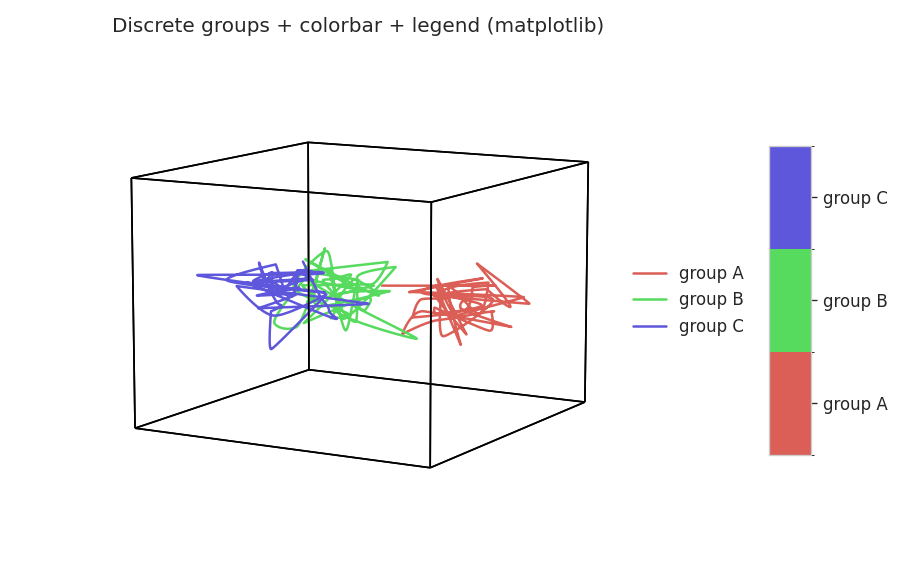
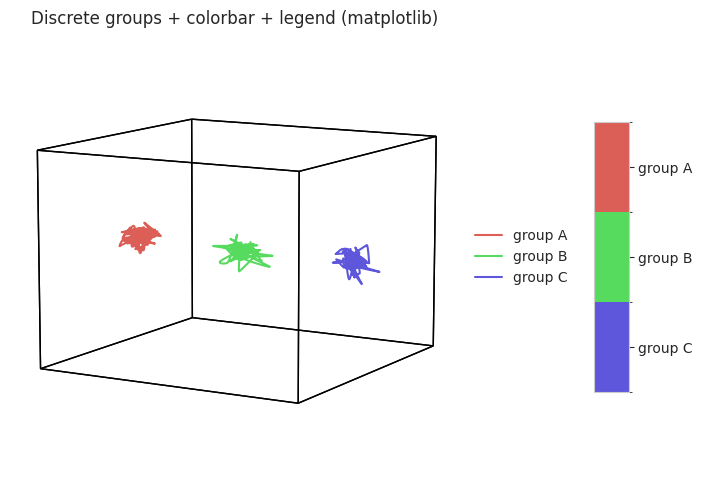
fix(colorbar): discrete segments read in legend order (GH #100 follow-up)
A vertical discrete colorbar previously read bottom-up (matplotlib/plotly's
default low-value-at-bottom convention), the reverse of the legend, which
reads top-to-bottom. Flip only the DISPLAY orientation for discrete
colorbars (mpl: cbar.ax.invert_yaxis(); plotly: reversed colorscale +
reversed tickvals) so the first group renders at the top, matching the
legend -- color<->label pairing is preserved since only the physical
position, not the data-to-color mapping, changes. Horizontal discrete
colorbars (location='top'/'bottom') already read left-to-right in legend
order and are untouched; continuous colorbars are unaffected.

diff --git a/tests/test_colorbar.py b/tests/test_colorbar.py
@@ -244,11 +244,20 @@ def test_continuous_colorbar_plotly_matches_palette():
 
 
 def test_discrete_colorbar_plotly_matches_groups():
+    # NOTE (GH #100 follow-up): a VERTICAL discrete colorbar must read
+    # top-to-bottom in the SAME order as the legend, i.e. group 0 (the
+    # FIRST group) must sit at the TOP -- plotly's vertical orientation
+    # places cmax (the largest value) at the top and cmin at the bottom, so
+    # group 0's tick now lives at the LARGEST value (n - 1) instead of 0,
+    # and the hard-edged colorscale segments are built from `colors[::-1]`
+    # so the segment nearest cmax (top) holds group 0's color. This was
+    # previously pinned to the old bottom-up order ([0, 1, 2] / segments in
+    # forward order); updated to assert the new top-down order instead.
     x, hue = _discrete_hue_data()
     fig = hyp.plot(x, hue=hue, colorbar=True, backend='plotly', show=False)
     cb_trace = fig.data[-1]
 
-    assert list(cb_trace.marker.colorbar.tickvals) == [0, 1, 2]
+    assert list(cb_trace.marker.colorbar.tickvals) == [2, 1, 0]
     assert list(cb_trace.marker.colorbar.ticktext) == ['1', '2', '3']
     assert cb_trace.marker.cmin == pytest.approx(-0.5)
     assert cb_trace.marker.cmax == pytest.approx(2.5)
@@ -258,12 +267,17 @@ def test_discrete_colorbar_plotly_matches_groups():
     def _parse_rgb(s):
         return tuple(int(v) for v in s[len('rgb('):-1].split(','))
 
-    # first stop of each of the 3 hard-edged segments == that group's color
+    # first stop of each of the 3 hard-edged segments -- segment 0 (nearest
+    # cmin, i.e. the BOTTOM of the vertical colorbar) now holds the LAST
+    # group's color, and segment 2 (nearest cmax, the TOP) holds the FIRST
+    # group's color, since group 0 must render at the top to match the
+    # legend.
     scale = cb_trace.marker.colorscale
     seg0_color = _parse_rgb(scale[0][1])
     seg1_color = _parse_rgb(scale[2][1])
     seg2_color = _parse_rgb(scale[4][1])
-    for seg_color, exp in zip((seg0_color, seg1_color, seg2_color), expected):
+    for seg_color, exp in zip((seg0_color, seg1_color, seg2_color),
+                              reversed(expected)):
         assert seg_color == tuple(int(round(255 * c)) for c in exp)
 
 
@@ -367,4 +381,165 @@ def test_long_labels_legend_and_colorbar_fully_inside_canvas():
     _, cbar_ax = fig.axes
     cbar_labels = [t.get_text() for t in cbar_ax.get_yticklabels()]
     assert cbar_labels == long_labels
+
+
+# ------------------------------------------------------------------------
+# discrete colorbar segment order must match the legend order (GH #100
+# follow-up): legend reads first-to-last TOP-to-BOTTOM, so a VERTICAL
+# discrete colorbar must too (first group at the top); a HORIZONTAL one
+# must read first-to-last LEFT-to-RIGHT (first group leftmost).
+# --------------------------------------------------------------------------
+
+def test_discrete_colorbar_mpl_vertical_reads_top_to_bottom_in_legend_order():
+    x, hue = _discrete_hue_data()
+    legend = ['group A', 'group B', 'group C']
+    fig = hyp.plot(x, hue=hue, colorbar=True, legend=legend, show=False)
+    canvas = FigureCanvasAgg(fig)
+    canvas.draw()
+    renderer = canvas.get_renderer()
+    ax, cbar_ax = fig.axes
+
+    # ground truth: the legend's own artists, top-to-bottom by DISPLAY y
+    # (descending y = higher on the canvas = earlier), and each group's
+    # actual drawn color (the legend proxy handles' colors).
+    handles, legend_texts = ax.get_legend().legend_handles, ax.get_legend().texts
+    legend_entries = sorted(
+        zip((t.get_window_extent(renderer).y0 for t in legend_texts),
+            (t.get_text() for t in legend_texts),
+            (h.get_color() for h in handles)),
+        key=lambda e: -e[0])
+    legend_order = [label for _, label, _ in legend_entries]
+    color_by_label = {label: color for _, label, color in legend_entries}
+    assert legend_order == legend, "sanity check: legend itself reads top-down"
+
+    # colorbar: tick labels sorted by DESCENDING display y (top first)
+    ticklabels = cbar_ax.get_yticklabels()
+    ticks = cbar_ax.get_yticks()
+    entries = sorted(
+        zip((t.get_window_extent(renderer).y0 for t in ticklabels),
+            (t.get_text() for t in ticklabels), ticks),
+        key=lambda e: -e[0])
+    cbar_order = [label for _, label, _ in entries]
+    assert cbar_order == legend_order, (
+        "discrete colorbar must read top-to-bottom in the SAME order as "
+        "the legend")
+
+    # critical invariant: the order flip must not break color<->label
+    # pairing -- each tick's face color (sampled through the colorbar's
+    # own cmap/norm at that tick's data value) must equal the actual
+    # drawn color for that group.
+    mesh = _quadmesh(cbar_ax)
+    for _, label, tickval in entries:
+        face = mesh.cmap(mesh.norm(tickval))[:3]
+        assert np.allclose(face, color_by_label[label], atol=1e-6), (
+            f"{label}'s colorbar segment color does not match its line color")
     plt.close(fig)
+
+
+def test_discrete_colorbar_mpl_horizontal_reads_left_to_right_in_legend_order():
+    x, hue = _discrete_hue_data()
+    legend = ['group A', 'group B', 'group C']
+    fig = hyp.plot(x, hue=hue, colorbar={'location': 'bottom'},
+                   legend=legend, show=False)
+    canvas = FigureCanvasAgg(fig)
+    canvas.draw()
+    renderer = canvas.get_renderer()
+    ax, cbar_ax = fig.axes
+
+    handles, legend_texts = ax.get_legend().legend_handles, ax.get_legend().texts
+    color_by_label = {t.get_text(): h.get_color()
+                      for t, h in zip(legend_texts, handles)}
+
+    ticklabels = cbar_ax.get_xticklabels()
+    ticks = cbar_ax.get_xticks()
+    entries = sorted(
+        zip((t.get_window_extent(renderer).x0 for t in ticklabels),
+            (t.get_text() for t in ticklabels), ticks),
+        key=lambda e: e[0])  # ascending x = left first
+    cbar_order = [label for _, label, _ in entries]
+    assert cbar_order == legend, (
+        "horizontal discrete colorbar must read left-to-right in legend order")
+
+    mesh = _quadmesh(cbar_ax)
+    for _, label, tickval in entries:
+        face = mesh.cmap(mesh.norm(tickval))[:3]
+        assert np.allclose(face, color_by_label[label], atol=1e-6)
+    plt.close(fig)
+
+
+def test_discrete_colorbar_plotly_vertical_reads_top_to_bottom_in_legend_order():
+    x, hue = _discrete_hue_data()
+    legend = ['group A', 'group B', 'group C']
+    fig = hyp.plot(x, hue=hue, colorbar=True, legend=legend,
+                   backend='plotly', show=False)
+    cb_trace = fig.data[-1]
+    cb = cb_trace.marker.colorbar
+
+    assert list(cb.ticktext) == legend
+    # tickvals descending -> tick for legend[0] sits at the HIGHEST value,
+    # which plotly renders nearest cmax, i.e. the TOP of a vertical colorbar
+    tickvals = list(cb.tickvals)
+    assert tickvals == sorted(tickvals, reverse=True)
+    assert tickvals[0] == max(tickvals), "first legend entry must be at the top"
+
+    # color pairing: the segment at each tickval's position holds the
+    # SAME group's actual drawn color
+    expected = get_palette_colors('hls', 3)
+
+    def _parse_rgb(s):
+        return tuple(int(v) for v in s[len('rgb('):-1].split(','))
+
+    cmin, cmax = cb_trace.marker.cmin, cb_trace.marker.cmax
+    scale = cb_trace.marker.colorscale
+    for label, tickval, exp in zip(legend, tickvals, expected):
+        frac = (tickval - cmin) / (cmax - cmin)
+        # find the segment whose [start, end) fraction range contains frac
+        seg_color = None
+        for i in range(0, len(scale), 2):
+            lo, hi = scale[i][0], scale[i + 1][0]
+            if lo - 1e-9 <= frac <= hi + 1e-9:
+                seg_color = _parse_rgb(scale[i][1])
+                break
+        assert seg_color is not None, f"no segment found for {label} at frac={frac}"
+        assert seg_color == tuple(int(round(255 * c)) for c in exp), (
+            f"{label}'s colorbar segment color does not match its group color")
+
+
+# --------------------------------------------------- continuous regression
+def test_continuous_colorbar_mpl_orientation_unchanged():
+    """Regression: CONTINUOUS colorbars are numeric and must keep the
+    conventional low-at-bottom orientation (untouched by the discrete
+    top-to-bottom legend-order fix, GH #100 follow-up)."""
+    x, hue = _continuous_hue_data()
+    fig = hyp.plot(x, hue=hue, fmt='-', colorbar=True, show=False)
+    canvas = FigureCanvasAgg(fig)
+    canvas.draw()
+    renderer = canvas.get_renderer()
+    _, cbar_ax = fig.axes
+
+    assert not cbar_ax.yaxis_inverted(), (
+        "continuous colorbar's y-axis must not be inverted")
+
+    ticklabels = cbar_ax.get_yticklabels()
+    ticks = cbar_ax.get_yticks()
+    # the tick with the SMALLEST data value must be at the BOTTOM (smallest
+    # display y0) -- i.e. vmin at bottom, vmax at top (unchanged convention)
+    pairs = sorted(zip(ticks, ticklabels), key=lambda p: p[0])
+    y_positions = [t.get_window_extent(renderer).y0 for _, t in pairs]
+    assert y_positions == sorted(y_positions), (
+        "vmin must render at the bottom and vmax at the top")
+    plt.close(fig)
+
+
+def test_continuous_colorbar_plotly_orientation_unchanged():
+    x, hue = _continuous_hue_data()
+    fig = hyp.plot(x, hue=hue, fmt='-', colorbar=True, backend='plotly',
+                   show=False)
+    cb_trace = fig.data[-1]
+    # stop 0.0 (bottom of a vertical colorbar) must be the LOW end of the
+    # palette (vmin's color), unchanged from before the discrete-only fix
+    first_stop, _ = cb_trace.marker.colorscale[0]
+    last_stop, _ = cb_trace.marker.colorscale[-1]
+    assert first_stop == pytest.approx(0.0)
+    assert last_stop == pytest.approx(1.0)
+    assert cb_trace.marker.cmin < cb_trace.marker.cmax

diff --git a/scripts/generate_colorbar_evidence.py b/scripts/generate_colorbar_evidence.py
@@ -1,0 +1,72 @@
+"""Regenerate the discrete-colorbar evidence images (GH #100 follow-up --
+"the entries in legend and discrete colorbar entries should be in the same
+order").
+
+Drives the REAL `hyp.plot(..., colorbar=True, legend=[...])` code path for
+both backends on 3 discrete groups, so the legend ("group A, group B, group
+C" top-to-bottom) and the VERTICAL discrete colorbar can be visually
+compared -- after the fix, both must read in the SAME top-to-bottom order
+(previously the colorbar read bottom-up, the reverse of the legend).
+
+Run from the repo root:
+    .venv/bin/python scripts/generate_colorbar_evidence.py
+
+Outputs:
+    docs/images/v1.0-seven-features/colorbar_discrete_mpl.png
+    docs/images/v1.0-seven-features/colorbar_discrete_plotly.png
+"""
+import os
+
+import numpy as np
+
+import matplotlib
+matplotlib.use('Agg')
+import matplotlib.pyplot as plt
+
+import hypertools as hyp
+
+REPO = os.path.dirname(os.path.dirname(os.path.abspath(__file__)))
+OUT = os.path.join(REPO, 'docs', 'images', 'v1.0-seven-features')
+
+LEGEND = ['group A', 'group B', 'group C']
+
+
+def _three_groups(n=60):
+    rng = np.random.default_rng(0)
+    offsets = (-5.0, 0.0, 5.0)
+    return [rng.standard_normal((n, 3)) * 0.4 + np.array([off, 0, 0])
+            for off in offsets]
+
+
+def generate_mpl(data, title, out_path):
+    fig = hyp.plot(data, legend=LEGEND, colorbar=True, show=False)
+    ax = fig.axes[0]
+    ax.set_title(title)
+    fig.savefig(out_path, dpi=100, bbox_inches='tight')
+    plt.close(fig)
+    print(f'wrote {out_path}')
+
+
+def generate_plotly(data, title, out_path):
+    fig = hyp.plot(data, legend=LEGEND, colorbar=True, backend='plotly',
+                   show=False)
+    # hyp.plot() was called without title=, so its layout kept the no-title
+    # top margin (t=10) -- widen it when adding the title here, or the title
+    # renders clipped off the top edge of the exported image.
+    fig.update_layout(title=dict(text=title, y=0.97, yanchor='top'),
+                      margin=dict(t=45))
+    fig.write_image(out_path)
+    print(f'wrote {out_path}')
+
+
+def main():
+    os.makedirs(OUT, exist_ok=True)
+    data = _three_groups()
+    generate_mpl(data, 'Discrete groups + colorbar + legend (matplotlib)',
+                os.path.join(OUT, 'colorbar_discrete_mpl.png'))
+    generate_plotly(data, 'Discrete groups + colorbar + legend (plotly)',
+                   os.path.join(OUT, 'colorbar_discrete_plotly.png'))
+
+
+if __name__ == '__main__':
+    main()

diff --git a/hypertools/plot/plotly_backend.py b/hypertools/plot/plotly_backend.py
@@ -1554,12 +1554,27 @@ def _colorbar_trace(go, colorbar_info, ndims, legend_present):
     else:
         colors = colorbar_info['colors']
         n = len(colors)
-        colorscale = _discrete_plotly_colorscale(colors)
+        # A VERTICAL discrete colorbar ('right'/'left', orientation='v')
+        # must read top-to-bottom in the SAME order as the legend (first
+        # group at the TOP) -- plotly's default low-value-at-bottom
+        # convention otherwise reverses it relative to the legend (GH #100
+        # follow-up). Segment `i` (from the bottom) is built from
+        # `colors[n - 1 - i]` (i.e. `colors` reversed) so the FIRST group's
+        # color ends up in the TOP segment; `tickvals` are reversed to
+        # match (tick for group `g`, at `ticktext[g]`, is placed at the
+        # segment that now holds `colors[g]`), so label<->color pairing is
+        # unchanged -- only the physical position each group occupies
+        # flips. A HORIZONTAL discrete colorbar ('top'/'bottom',
+        # orientation='h') already reads left-to-right in legend order
+        # (plotly's default), so it is left untouched.
+        scale_colors = colors[::-1] if orientation == 'v' else colors
+        colorscale = _discrete_plotly_colorscale(scale_colors)
         cmin, cmax = -0.5, n - 0.5
         if colorbar_info.get('ticks') is not None:
             cb['tickvals'] = list(colorbar_info['ticks'])
         else:
-            cb['tickvals'] = list(range(n))
+            cb['tickvals'] = (list(range(n - 1, -1, -1)) if orientation == 'v'
+                              else list(range(n)))
             cb['ticktext'] = [str(l) for l in colorbar_info['labels']]
 
     marker = dict(color=[cmin], colorscale=colorscale, cmin=cmin, cmax=cmax,

diff --git a/tests/test_multiindex.py b/tests/test_multiindex.py
@@ -492,6 +492,34 @@ def test_multiindex_colorbar_3level_shows_only_top_level_segments():
     assert '_nolegend_' not in labels
 
 
+def test_multiindex_colorbar_top_level_order_matches_legend_order():
+    """GH #100 follow-up: the MultiIndex-driven discrete colorbar (one
+    segment per TOP-level group) must inherit the top-to-bottom
+    legend-order fix, same as any other discrete colorbar -- the top-level
+    group order must read the same top-to-bottom as the legend, not
+    matplotlib's default bottom-up order."""
+    from matplotlib.backends.backend_agg import FigureCanvasAgg
+
+    df = _make_2level_df()
+    fig = hyp.plot(df, colorbar=True, legend=True, show=False)
+    canvas = FigureCanvasAgg(fig)
+    canvas.draw()
+    renderer = canvas.get_renderer()
+
+    ax, cbar_ax = fig.axes
+    _, legend_labels = ax.get_legend_handles_labels()
+    assert list(legend_labels) == ['condA', 'condB']
+
+    ticklabels = cbar_ax.get_yticklabels()
+    entries = sorted(
+        ((t.get_window_extent(renderer).y0, t.get_text()) for t in ticklabels),
+        key=lambda e: -e[0])  # descending y = top first
+    cbar_order = [label for _, label in entries]
+    assert cbar_order == list(legend_labels), (
+        "MultiIndex colorbar's top-level order must match the legend order")
+    plt.close(fig)
+
+
 def test_build_styles_3level_unequal_lengths_warns_exactly_once():
     """A 3-level tree where one leaf is short: the leaf is a member of BOTH
     its (grp, cond) prefix group AND its grp prefix group, so a naive

diff --git a/hypertools/plot/plot.py b/hypertools/plot/plot.py
@@ -2067,6 +2067,22 @@ def _add_colorbar(fig, ax, colorbar_info, font=None):
         if label:
             cbar.set_label(label)
         _apply_font_to_colorbar(cbar, font)
+
+    # A VERTICAL discrete colorbar ('right'/'left') must read top-to-bottom
+    # in the SAME order as the legend (first group at the TOP) -- matplotlib's
+    # default low-value-at-bottom convention otherwise reverses it relative
+    # to the legend, which reads first-to-last top-to-bottom (GH #100
+    # follow-up). `invert_yaxis` only flips the DISPLAY orientation of the
+    # existing data-to-color mapping -- the same data value still maps to
+    # the same color, so color<->label pairing survives the flip exactly;
+    # it just moves group 0 from the bottom to the top. A HORIZONTAL
+    # discrete colorbar ('top'/'bottom') already reads left-to-right in
+    # legend order (matplotlib's default), so it is left untouched.
+    # Continuous colorbars are numeric and must keep the conventional
+    # low-at-bottom orientation, so this only applies to 'discrete'.
+    if (colorbar_info['kind'] == 'discrete'
+            and colorbar_info['location'] in ('right', 'left')):
+        cbar.ax.invert_yaxis()
     return cbar
 
 
